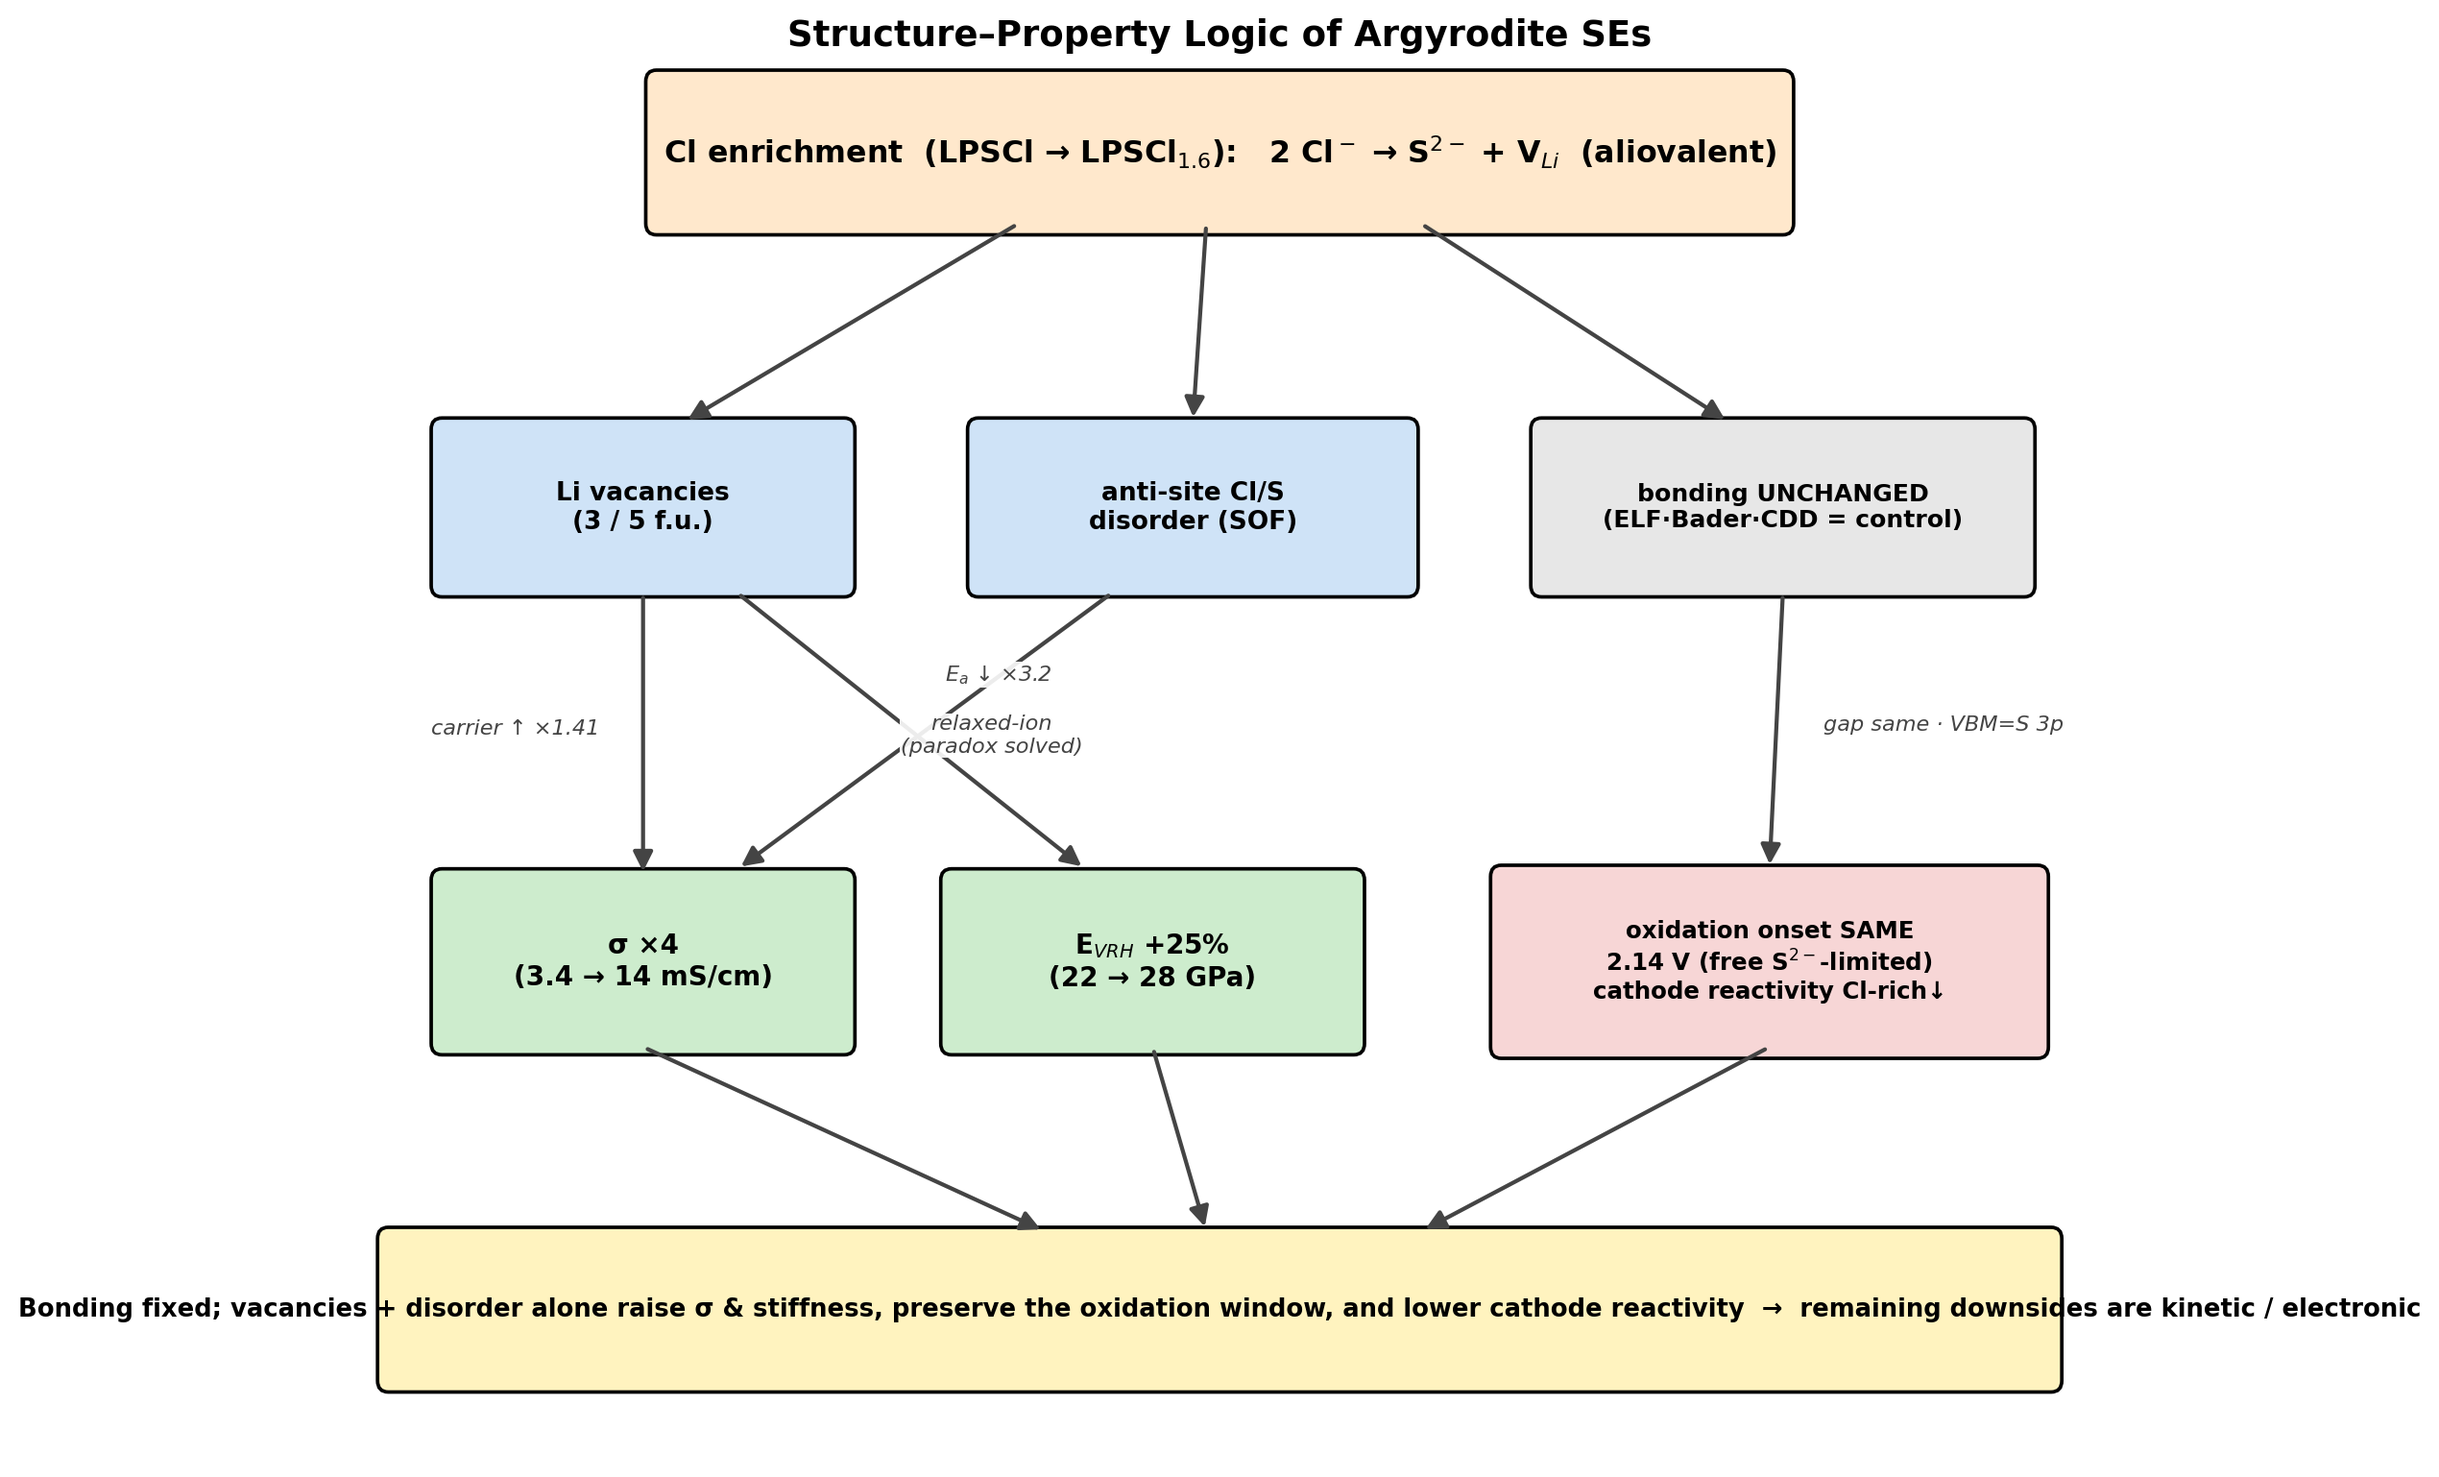
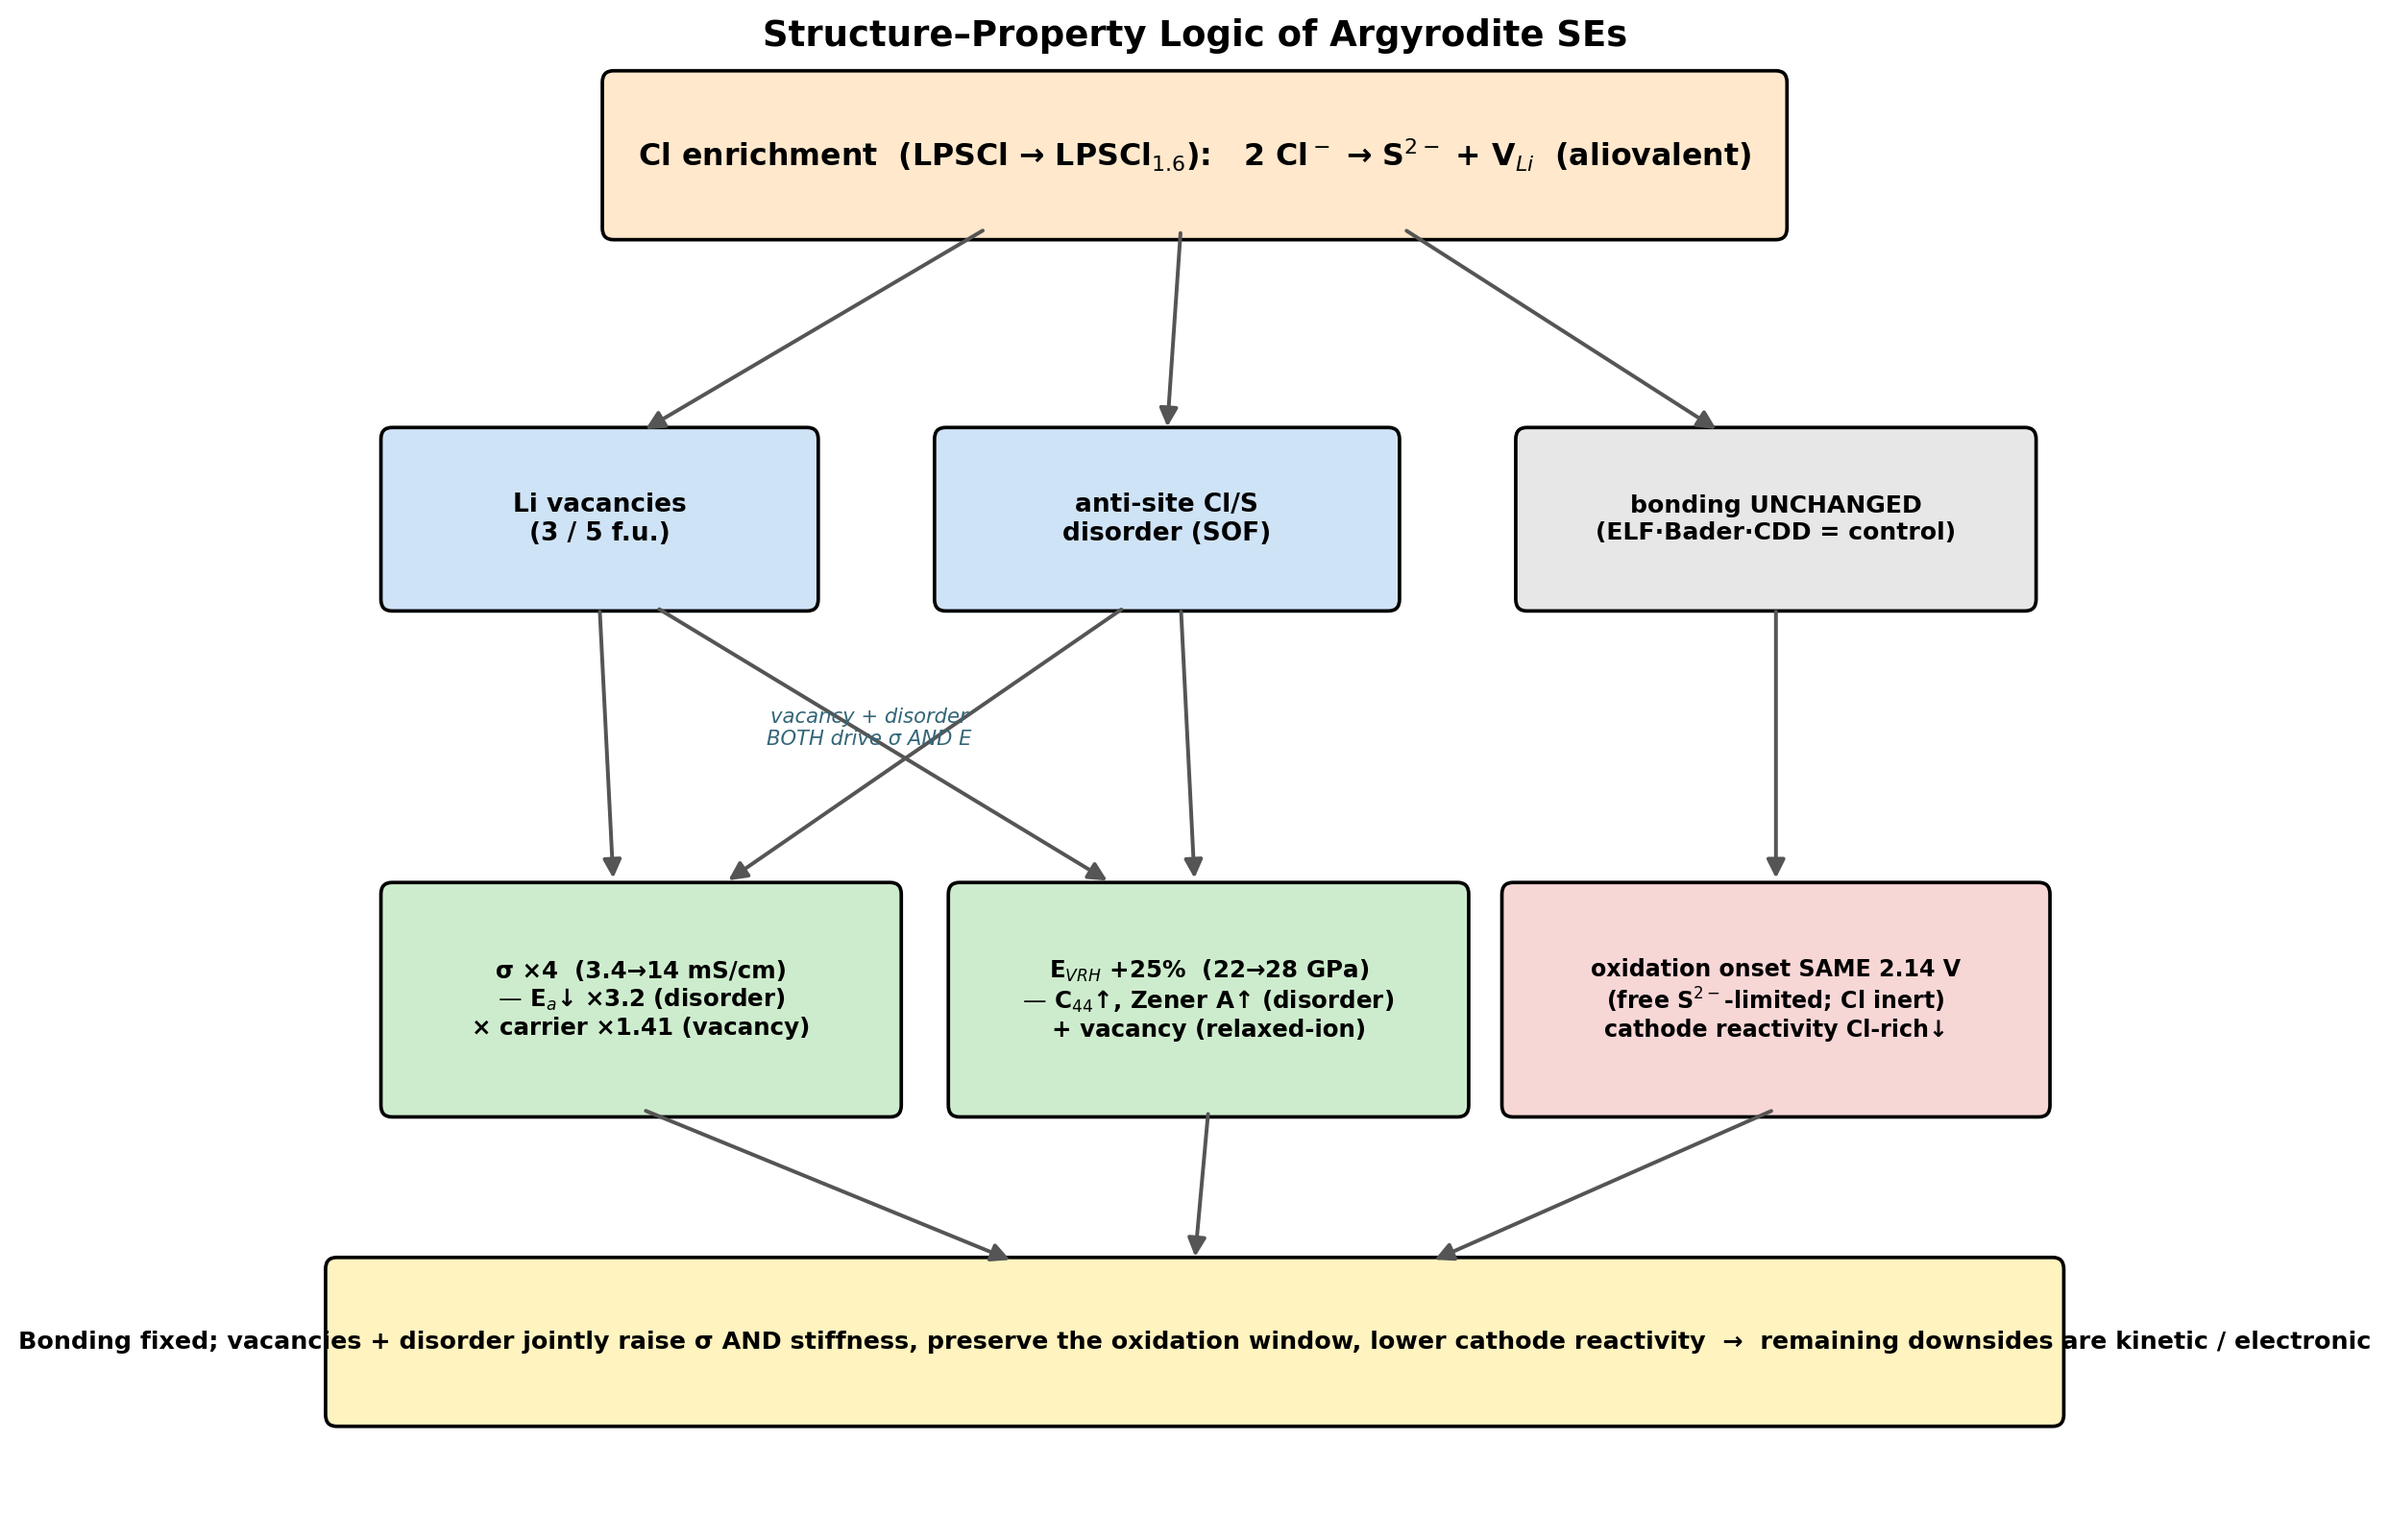
Correct logic: E_VRH driven by anti-site disorder too (not just vacancy)
Both structural effects (Li vacancies + anti-site Cl/S disorder) jointly drive
BOTH sigma and E_VRH. Evidence E_VRH is disorder-sensitive: C44 (shear) 8.0->13.7
and Zener A 1.14->1.44 (anisotropy) = direct disorder fingerprint (vacancies
alone don't break cubic symmetry this way). Diagram redrawn with 4 cross-arrows
(vacancy & disorder -> sigma & E); master doc [D] updated.

Claude-Session: https://claude.ai/code/session_01L44TWYrHkcm4PH5ihWSSCw

diff --git a/tools/figures/plot_structure_property_logic.py b/tools/figures/plot_structure_property_logic.py
@@ -1,26 +1,26 @@
 import matplotlib; matplotlib.use("Agg"); import matplotlib.pyplot as plt
 from matplotlib.patches import FancyBboxPatch, FancyArrowPatch
-fig,ax=plt.subplots(figsize=(13,8.2)); ax.set_xlim(0,13); ax.set_ylim(0,10); ax.axis('off')
+fig,ax=plt.subplots(figsize=(13,8.4)); ax.set_xlim(0,13); ax.set_ylim(0,10); ax.axis('off')
 def box(x,y,w,h,txt,fc,fs=10,bold=False):
     ax.add_patch(FancyBboxPatch((x-w/2,y-h/2),w,h,boxstyle="round,pad=0.08",fc=fc,ec='k',lw=1.4))
     ax.text(x,y,txt,ha='center',va='center',fontsize=fs,fontweight='bold' if bold else 'normal')
-def arr(x1,y1,x2,y2,lab='',c='#444',lx=0,ly=0):
-    ax.add_patch(FancyArrowPatch((x1,y1),(x2,y2),arrowstyle='-|>',mutation_scale=16,lw=1.6,color=c,shrinkA=2,shrinkB=2))
-    if lab: ax.text((x1+x2)/2+lx,(y1+y2)/2+ly,lab,fontsize=8.5,color=c,ha='center',style='italic',
-                    bbox=dict(fc='white',ec='none',alpha=0.9,pad=0.5))
+def arr(x1,y1,x2,y2,c='#555'):
+    ax.add_patch(FancyArrowPatch((x1,y1),(x2,y2),arrowstyle='-|>',mutation_scale=15,lw=1.5,color=c,shrinkA=2,shrinkB=2))
 box(6.5,9.2,8.4,1.0,"Cl enrichment  (LPSCl → LPSCl$_{1.6}$):   2 Cl$^-$ → S$^{2-}$ + V$_{Li}$  (aliovalent)","#ffe8cc",12,True)
 box(2.2,6.7,3.0,1.1,"Li vacancies\n(3 / 5 f.u.)","#cfe3f7",10,True)
 box(6.3,6.7,3.2,1.1,"anti-site Cl/S\ndisorder (SOF)","#cfe3f7",10,True)
 box(10.7,6.7,3.6,1.1,"bonding UNCHANGED\n(ELF·Bader·CDD = control)","#e7e7e7",9.5,True)
 arr(5.0,8.7,2.5,7.3); arr(6.4,8.7,6.3,7.3); arr(8.0,8.7,10.3,7.3)
-box(2.2,3.5,3.0,1.15,"σ ×4\n(3.4 → 14 mS/cm)","#cdeccd",10.5,True)
-box(6.0,3.5,3.0,1.15,"E$_{VRH}$ +25%\n(22 → 28 GPa)","#cdeccd",10.5,True)
-box(10.6,3.5,4.0,1.2,"oxidation onset SAME\n2.14 V (free S$^{2-}$-limited)\ncathode reactivity Cl-rich↓","#f7d6d6",9.3,True)
-arr(2.2,6.1,2.2,4.1,"carrier ↑ ×1.41",lx=-0.95,ly=0)
-arr(5.7,6.1,2.9,4.15,"E$_a$ ↓ ×3.2",lx=0.55,ly=0.35)
-arr(2.9,6.1,5.5,4.15,"relaxed-ion\n(paradox solved)",lx=0.6,ly=-0.15)
-arr(10.7,6.1,10.6,4.15,"gap same · VBM=S 3p",lx=1.25,ly=0)
-box(6.5,1.05,12.4,1.0,"Bonding fixed; vacancies + disorder alone raise σ & stiffness, preserve the oxidation window, and lower cathode reactivity  →  remaining downsides are kinetic / electronic","#fff3bf",9.8,True)
-arr(2.2,2.9,5.2,1.6); arr(6.0,2.9,6.4,1.6); arr(10.6,2.9,8.0,1.6)
+# property boxes with attribution inside (BOTH structural effects feed BOTH)
+box(2.5,3.4,3.6,1.45,"σ ×4  (3.4→14 mS/cm)\n— E$_a$↓ ×3.2 (disorder)\n× carrier ×1.41 (vacancy)","#cdeccd",9.3,True)
+box(6.6,3.4,3.6,1.45,"E$_{VRH}$ +25%  (22→28 GPa)\n— C$_{44}$↑, Zener A↑ (disorder)\n+ vacancy (relaxed-ion)","#cdeccd",9.3,True)
+box(10.7,3.4,3.8,1.45,"oxidation onset SAME 2.14 V\n(free S$^{2-}$-limited; Cl inert)\ncathode reactivity Cl-rich↓","#f7d6d6",9.0,True)
+# 4 cross arrows: each structural box -> sigma AND E
+arr(2.2,6.1,2.3,4.2); arr(2.6,6.1,5.9,4.2)          # vacancy -> sigma, E
+arr(6.0,6.1,3.1,4.2); arr(6.4,6.1,6.5,4.2)          # disorder -> sigma, E
+arr(10.7,6.1,10.7,4.2)                                # bonding -> oxidation
+ax.text(4.15,5.15,"vacancy + disorder\nBOTH drive σ AND E",fontsize=8,color='#367',ha='center',style='italic')
+box(6.5,1.05,12.4,1.0,"Bonding fixed; vacancies + disorder jointly raise σ AND stiffness, preserve the oxidation window, lower cathode reactivity  →  remaining downsides are kinetic / electronic","#fff3bf",9.6,True)
+arr(2.5,2.65,5.2,1.6); arr(6.6,2.65,6.5,1.6); arr(10.7,2.65,8.2,1.6)
 ax.text(6.5,9.95,"Structure–Property Logic of Argyrodite SEs",ha='center',fontsize=14,fontweight='bold')
 plt.tight_layout(); plt.savefig("/tmp/structure_property_logic.png",dpi=190,bbox_inches='tight'); print("ok")

diff --git a/kb/results/MASTER_structure_property_logic_2026_06_21.md b/kb/results/MASTER_structure_property_logic_2026_06_21.md
@@ -36,8 +36,12 @@ LPSCl (Li₆PS₅Cl) vs LPSCl₁.₆ (Li₅.₄PS₄.₄Cl₁.₆) · 2026-06-21
 - **CDD**: 재배치 ~5.8e(comp1)/6.84e(modelc), 둘 다 노랑(P–S 축적)/파랑(Li 결핍) **같은 패턴**.
 → **σ 변화는 공유성/전하 변화가 아니라 순수 구조(공공+무질서)** — 3개 독립 방법이 같은 대조 결론.
 
-### [D] 기계적 강성 +25% (vacancy paradox 해결)
-- **relaxed-ion E_VRH**: comp1 **22.1** → modelc **27.7 GPa (+25%)**. C44(전단) 8.0→13.7로 급증, Zener A 1.14→1.44(비등방↑ = 무질서 지문).
+### [D] 기계적 강성 +25% (vacancy + anti-site disorder 공동, paradox 해결)
+- **relaxed-ion E_VRH**: comp1 **22.1** → modelc **27.7 GPa (+25%)**.
+- **두 구조효과가 공동으로 E를 올림** (σ와 동일한 뿌리):
+  - **anti-site disorder**: C44(전단) 8.0→**13.7** 급증 + Zener A 1.14→**1.44**(비등방↑). 전단·비등방은 *국소 방향성 결합*에 민감 → **disorder의 직접 지문** (vacancy만으론 cubic 대칭 이렇게 안 깨짐).
+  - **Li vacancy**: relaxed-ion lattice 기여 (Born screening 포함).
+  - (정량 분리는 ordered-vacancy vs disordered modelc의 E 비교로 가능 — Ea의 슬라이드7 disorder-control 실험의 기계 버전.)
 - clamped-ion은 52.3으로 둘 다 동일(2.3× 과대) = **paradox 인공물**. 이온 이완(Born screening) 허용해야 실험(~23)·문헌 DFT(SQS 22.1, ensm 27.8–29.9)와 일치.
 - EOS B0(26.2) ≈ relaxed B_VRH(25.5) → 교차검증 통과.
 → Cl-rich가 **더 단단함** (문헌 Kim 초음파는 두 조성 비슷하나, 단결정 DFT는 강화 예측).
